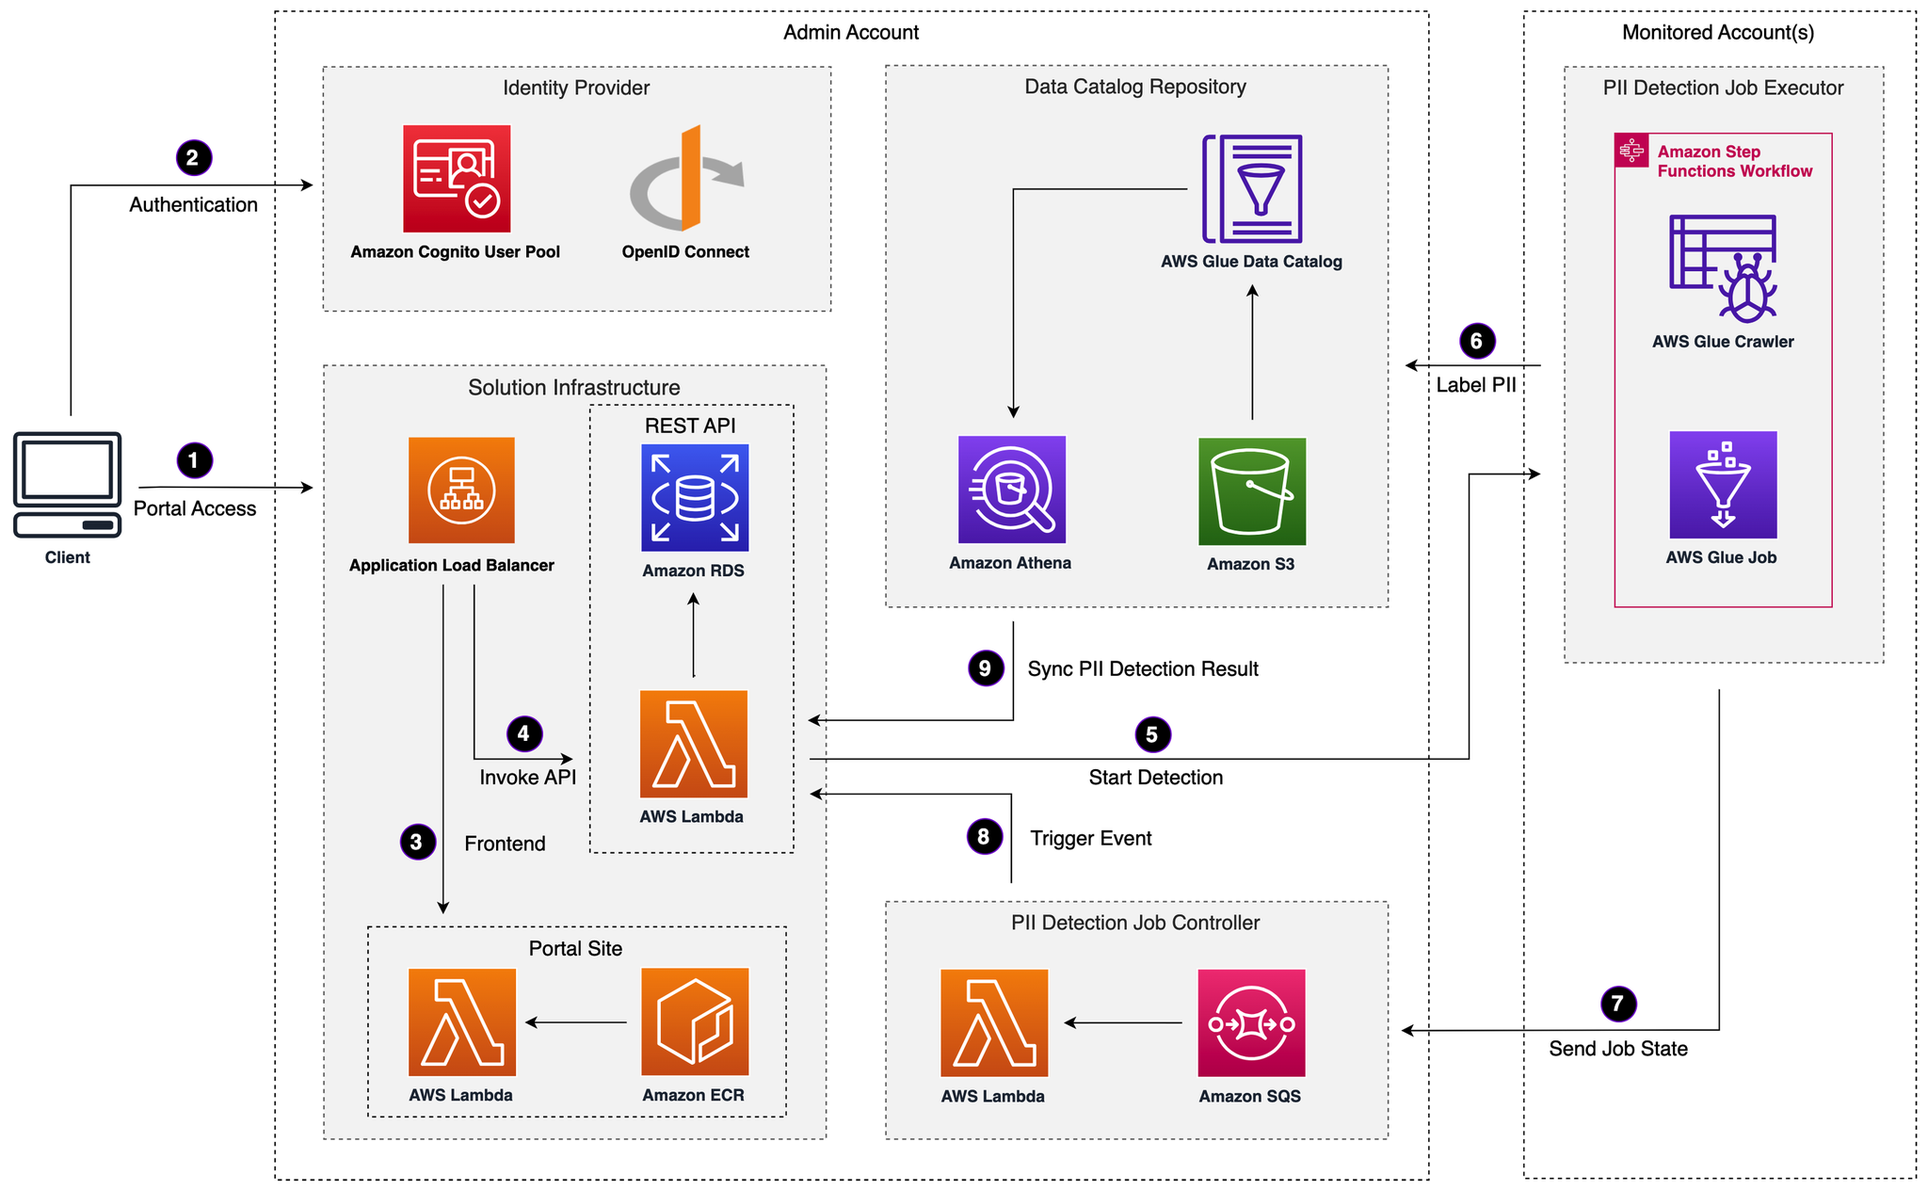
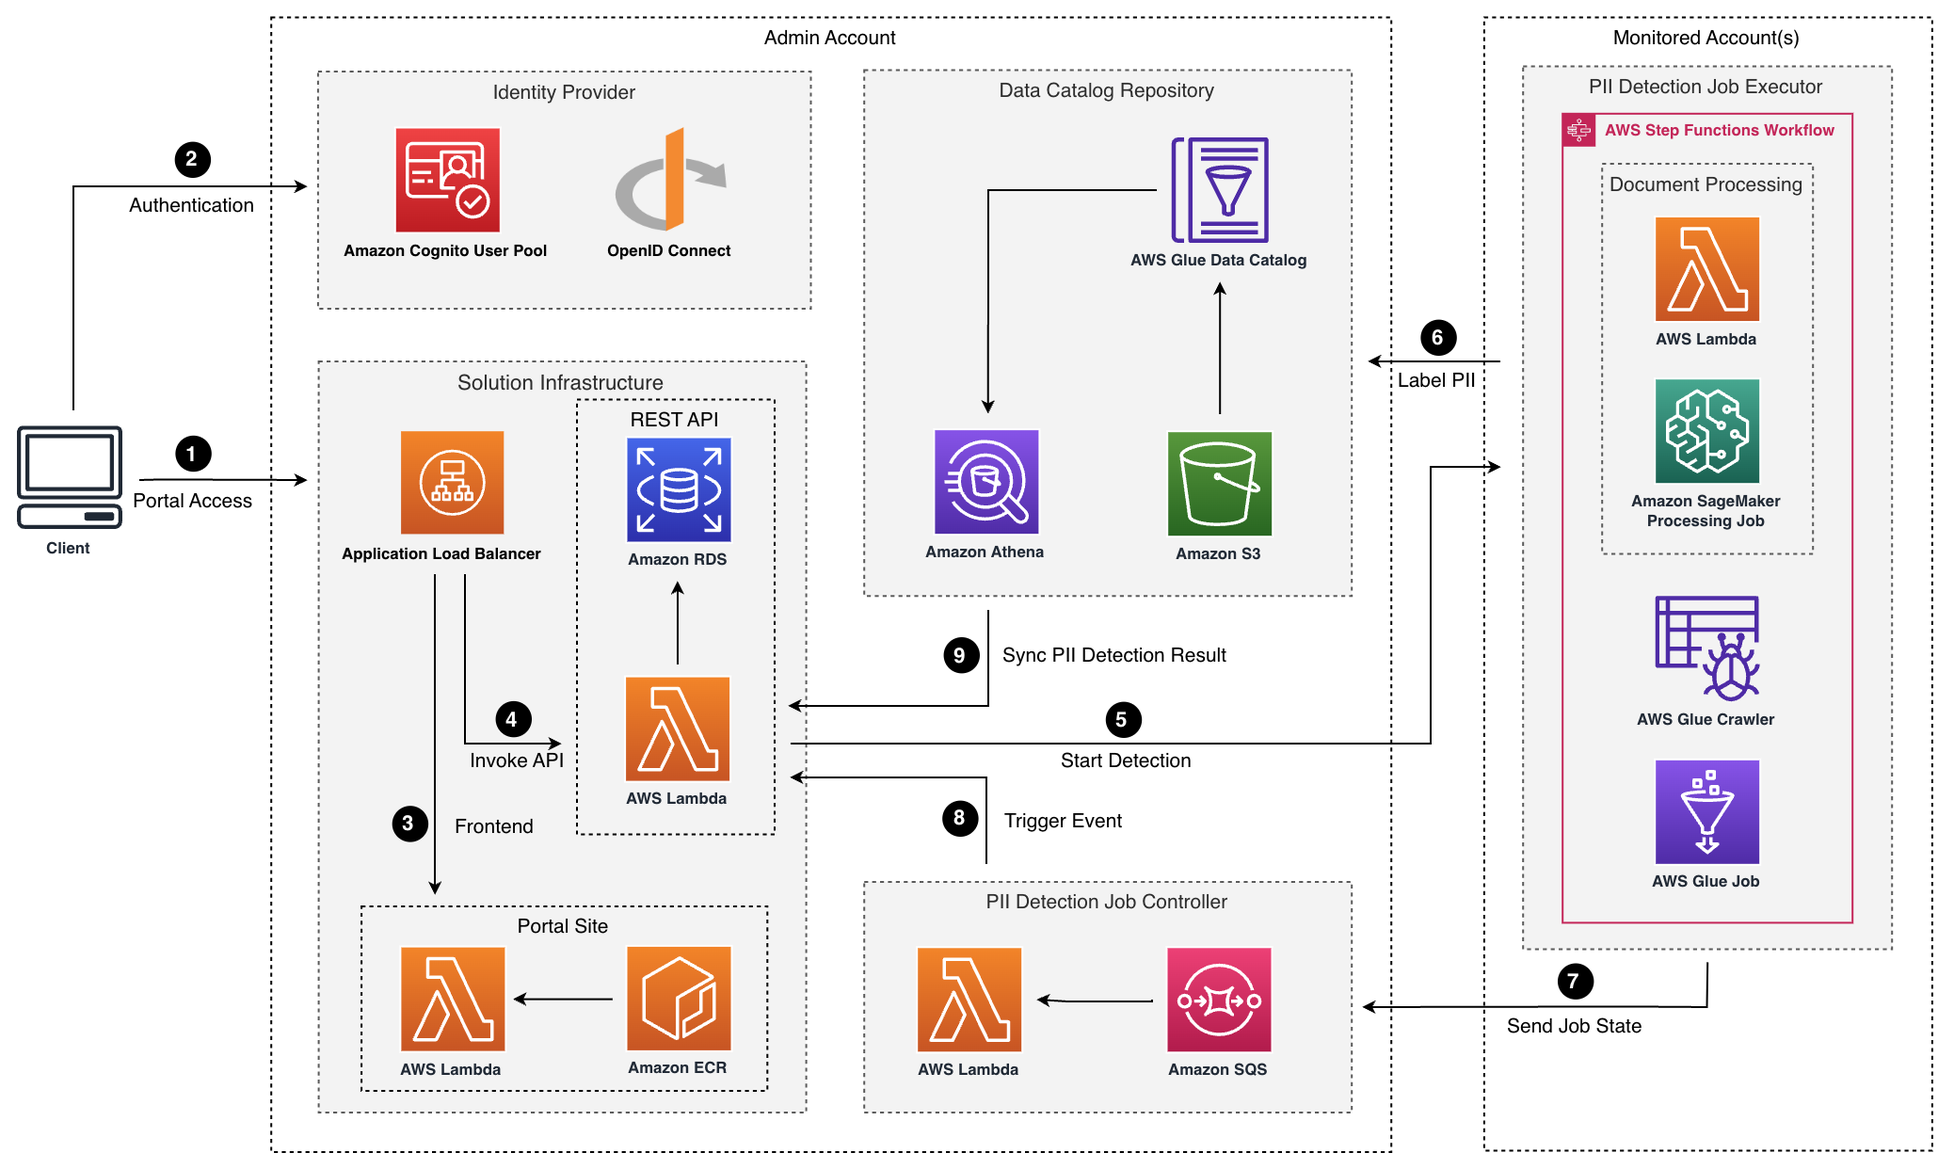
fix(doc): update doc

diff --git a/docs/en/deployment/deployment.md b/docs/en/deployment/deployment.md
@@ -98,8 +98,8 @@ Deploy the AWS CloudFormation **Admin** template into your AWS admin account.
 
     |                                       | Launch in AWS Console                                                                                                                                                                                                                                                            |
     |----------------------------------------------------------------------------------------------------------------------------------------------------------------------------------------------------------------------------------------------------------------------------------| ------------------------- |
-    | Deploy the Admin template with a new VPC in AWS Regions       | [![Launch Stack](../images/launch-stack.png)](https://console.aws.amazon.com/cloudformation/home#/stacks/create/template?stackName=SDPS-Admin&templateURL=https://aws-gcr-solutions.s3.amazonaws.com/aws-sensitive-data-protection/latest/default/Admin.template.json){target=_blank}                               |
-    | Deploy the Admin template with an existing VPC in AWS Regions | [![Launch Stack](../images/launch-stack.png)](https://console.aws.amazon.com/cloudformation/home#/stacks/create/template?stackName=SDPS-Admin&templateURL=https://aws-gcr-solutions.s3.amazonaws.com/aws-sensitive-data-protection/latest/default/AdminExistVpc.template.json){target=_blank}                |
+    | Deploy the Admin template with a new VPC in AWS Regions       | [![Launch Stack](../images/launch-stack.png)](https://console.aws.amazon.com/cloudformation/home#/stacks/create/template?stackName=SDPS-Admin&templateURL=https://aws-gcr-solutions.s3.amazonaws.com/aws-sensitive-data-protection/latest/default/AdminWithIdP.template.json){target=_blank}                               |
+    | Deploy the Admin template with an existing VPC in AWS Regions | [![Launch Stack](../images/launch-stack.png)](https://console.aws.amazon.com/cloudformation/home#/stacks/create/template?stackName=SDPS-Admin&templateURL=https://aws-gcr-solutions.s3.amazonaws.com/aws-sensitive-data-protection/latest/default/AdminExistVpcWithIdP.template.json){target=_blank}                |
     | Deploy the Admin template with a new VPC in AWS China Regions                 | [![Launch Stack](../images/launch-stack.png)](https://cn-north-1.console.amazonaws.cn/cloudformation/home#/stacks/create/template?stackName=SDPS-Admin&templateURL=https://aws-gcr-solutions.s3.cn-north-1.amazonaws.com.cn/aws-sensitive-data-protection/latest/cn/Admin.template.json){target=_blank}                                 |
     | Deploy the Admin template with an existing VPC in AWS China Regions            | [![Launch Stack](../images/launch-stack.png)](https://cn-north-1.console.amazonaws.cn/cloudformation/home#/stacks/create/template?stackName=SDPS-Admin&templateURL=https://aws-gcr-solutions.s3.cn-north-1.amazonaws.com.cn/aws-sensitive-data-protection/latest/cn/AdminExistVpc.template.json){target=_blank} |
 
@@ -118,9 +118,9 @@ Deploy the AWS CloudFormation **Admin** template into your AWS admin account.
 
     |      Parameter      |    Default   |                                                      Description                                                      |
     |:-------------------:|:------------:|:--------------------------------------------------------------------------------------------------------------|
-    |Issuer URL||Specify the secure OpenID Connect URL. Maximum 255 characters. URL must begin with `https://`|
-    |Client ID||Specify the client ID issued by the identity provider. Maximum 255 characters. Use alphanumeric or ?:_.-/? characters |
-    |Public Access | Yes |If you choose No, the portal website can be accessed ONLY in the VPC. If you want to access the portal website over Internet, you need to choose Yes |
+    |Issuer URL||Specify the secure OpenID Connect URL. Maximum 255 characters. URL must begin with `https://`.The template with identity provider does not have this parameter.|
+    |Client ID||Specify the client ID issued by the identity provider. Maximum 255 characters. Use alphanumeric or ?:_.-/? characters.The template with identity provider does not have this parameter |
+    |Public Access | Yes |If you choose No, the portal website can be accessed ONLY in the VPC. If you want to access the portal website over Internet, you need to choose Yes.The template that uses only private subnets does not have this parameter |
     |Port|80|If an ACM certificate ARN has been added, we recommend using port 443 as the default port for HTTPS protocol. Otherwise, port 80 can be set as an alternative option|
     |ACM Certificate ARN||(Optional) To enable secure communication through encryption and enhancing the security of the solution, you can add a public certificate ARN from ACM to create the portal website URL based on the HTTPS protocol|
     |Custom Domain Name||(Optional) By adding your own domain name, such as sdps.example.com, you can directly access the portal website by adding a CNAME record to that domain name after deploying the stack. You only need to enter the domain name, excluding `http(s)://`|

diff --git a/docs/zh/deployment/deployment.md b/docs/zh/deployment/deployment.md
@@ -93,8 +93,8 @@ Issuer URL可以在您的个人资料中找到。完整的Issuer URL为“https:
 
    |                                       | 从 AWS 控制台中启动                                                                                                                                                                                                                                                            |
     |----------------------------------------------------------------------------------------------------------------------------------------------------------------------------------------------------------------------------------------------------------------------------------| ------------------------- |
-    | 在新VPC （AWS全球区域）中启动解决方案       | [![Launch Stack](../images/launch-stack.png)](https://console.aws.amazon.com/cloudformation/home#/stacks/create/template?stackName=SDPS-Admin&templateURL=https://aws-gcr-solutions.s3.amazonaws.com/aws-sensitive-data-protection/latest/default/Admin.template.json){target=_blank}                               |
-    | 在现有VPC （AWS全球区域）中启动解决方案 | [![Launch Stack](../images/launch-stack.png)](https://console.aws.amazon.com/cloudformation/home#/stacks/create/template?stackName=SDPS-Admin&templateURL=https://aws-gcr-solutions.s3.amazonaws.com/aws-sensitive-data-protection/latest/default/AdminExistVpc.template.json){target=_blank}                |
+    | 在新VPC （AWS全球区域）中启动解决方案       | [![Launch Stack](../images/launch-stack.png)](https://console.aws.amazon.com/cloudformation/home#/stacks/create/template?stackName=SDPS-Admin&templateURL=https://aws-gcr-solutions.s3.amazonaws.com/aws-sensitive-data-protection/latest/default/AdminWithIdP.template.json){target=_blank}                               |
+    | 在现有VPC （AWS全球区域）中启动解决方案 | [![Launch Stack](../images/launch-stack.png)](https://console.aws.amazon.com/cloudformation/home#/stacks/create/template?stackName=SDPS-Admin&templateURL=https://aws-gcr-solutions.s3.amazonaws.com/aws-sensitive-data-protection/latest/default/AdminExistVpcWithIdP.template.json){target=_blank}                |
     | 在新VPC（AWS 中国区域）中启动解决方案                 | [![Launch Stack](../images/launch-stack.png)](https://cn-north-1.console.amazonaws.cn/cloudformation/home#/stacks/create/template?stackName=SDPS-Admin&templateURL=https://aws-gcr-solutions.s3.cn-north-1.amazonaws.com.cn/aws-sensitive-data-protection/latest/cn/Admin.template.json){target=_blank}                                 |
     | 在现有VPC（AWS 中国区域）中启动解决方案           | [![Launch Stack](../images/launch-stack.png)](https://cn-north-1.console.amazonaws.cn/cloudformation/home#/stacks/create/template?stackName=SDPS-Admin&templateURL=https://aws-gcr-solutions.s3.cn-north-1.amazonaws.com.cn/aws-sensitive-data-protection/latest/cn/AdminExistVpc.template.json){target=_blank} |
 
@@ -113,9 +113,9 @@ Issuer URL可以在您的个人资料中找到。完整的Issuer URL为“https:
 
     |      参数       |    默认值    |                                                      描述                                                      |
     |:---------------:|:-----------:|:------------------------------------------------------------------------------------------------------------|
-    |Issuer URL||指定安全的OpenID Connect URL。最大长度为255个字符。URL必须以"https://"开头|
-    |Client ID||指定身份提供商颁发的客户端ID。最大长度为255个字符。使用字母数字或?:_.-/?字符 |
-    |Public Access | Yes |如果选择No，则只能在VPC中访问门户网站。如果要通过Internet访问门户网站，需要选择Yes |
+    |Issuer URL||指定安全的OpenID Connect URL。最大长度为255个字符。URL必须以"https://"开头。使用带身份提供商的模板无此参数|
+    |Client ID||指定身份提供商颁发的客户端ID。最大长度为255个字符。使用字母数字或?:_.-/?字符。使用带身份提供商的模板无此参数 |
+    |Public Access | Yes |如果选择No，则只能在VPC中访问门户网站。如果要通过Internet访问门户网站，需要选择Yes。使用纯私有子网的模板无此参数 |
     |Port|80|如果已添加ACM证书ARN，建议使用默认端口443作为HTTPS协议的端口。否则，可以将端口设置为80作为备用选项|
     |ACM Certificate ARN||(可选)为了通过加密实现安全通信并增强解决方案的安全性，可以添加来自ACM的公共证书ARN，以基于HTTPS协议创建门户网站URL|
     |Custom Domain Name||(可选)通过添加您自己的域名（例如sdps.example.com），您可以在部署堆栈后通过将CNAME记录添加到该域名来直接访问门户网站。只填写域名，不要填写http(s) |

diff --git a/docs/en/deployment/template.md b/docs/en/deployment/template.md
@@ -9,8 +9,10 @@ If all your accounts are within AWS Organizations, you need to deploy the IT tem
 
 - [Template for Admin account with IdP (Admin template) in New VPC](https://aws-gcr-solutions.s3.amazonaws.com/aws-sensitive-data-protection/latest/default/AdminWithIdP.template.json)
 - [Template for Admin account With IdP (Admin template) in Existing VPC](https://aws-gcr-solutions.s3.amazonaws.com/aws-sensitive-data-protection/latest/default/AdminExistVpcWithIdP.template.json)
+- [Template for Admin account With IdP (Admin template) in Only Private Subnets Existing VPC](https://aws-gcr-solutions.s3.amazonaws.com/aws-sensitive-data-protection/latest/default/AdminOnlyPrivateSubnetsWithIdP.template.json)
 - [Template for Admin account (Admin template) in New VPC](https://aws-gcr-solutions.s3.amazonaws.com/aws-sensitive-data-protection/latest/default/Admin.template.json)
 - [Template for Admin account (Admin template) in Existing VPC](https://aws-gcr-solutions.s3.amazonaws.com/aws-sensitive-data-protection/latest/default/AdminExistVpc.template.json)
+- [Template for Admin account (Admin template) in Only Private Subnets Existing VPC](https://aws-gcr-solutions.s3.amazonaws.com/aws-sensitive-data-protection/latest/default/AdminOnlyPrivateSubnets.template.json)
 - [Template for Monitored account (Agent template)](https://aws-gcr-solutions.s3.amazonaws.com/aws-sensitive-data-protection/latest/default/Agent.template.json)
 - [Template for IT account (IT template)](https://aws-gcr-solutions.s3.amazonaws.com/aws-sensitive-data-protection/latest/default/IT.template.json)
 

diff --git a/docs/zh/deployment/template.md b/docs/zh/deployment/template.md
@@ -8,8 +8,10 @@
 
 - [在新 VPC 中启动带身份提供商的管理员帐户模板 (Admin template)](https://aws-gcr-solutions.s3.amazonaws.com/aws-sensitive-data-protection/latest/default/AdminWithIdP.template.json)
 - [在现有 VPC 中启动带身份提供商的管理员帐户模板 (Admin template)](https://aws-gcr-solutions.s3.amazonaws.com/aws-sensitive-data-protection/latest/default/AdminExistVpcWithIdP.template.json)
+- [在现有仅私有子网VPC中启动带身份提供商的管理员帐户模板 (Admin template)](https://aws-gcr-solutions.s3.amazonaws.com/aws-sensitive-data-protection/latest/default/AdminOnlyPrivateSubnetsWithIdP.template.json)
 - [在新 VPC 中启动管理员帐户模板 (Admin template)](https://aws-gcr-solutions.s3.amazonaws.com/aws-sensitive-data-protection/latest/default/Admin.template.json)
 - [在现有 VPC 中启动管理员帐户模板 (Admin template)](https://aws-gcr-solutions.s3.amazonaws.com/aws-sensitive-data-protection/latest/default/AdminExistVpc.template.json)
+- [在现有仅私有子网VPC中启动管理员帐户模板 (Admin template)](https://aws-gcr-solutions.s3.amazonaws.com/aws-sensitive-data-protection/latest/default/AdminOnlyPrivateSubnets.template.json)
 - [被监控帐户的模板 (Agent template)](https://aws-gcr-solutions.s3.amazonaws.com/aws-sensitive-data-protection/latest/default/Agent.template.json)
 - [IT 帐户的模板 (IT template)](https://aws-gcr-solutions.s3.amazonaws.com/aws-sensitive-data-protection/latest/default/IT.template.json)
 

diff --git a/docs/en/architecture-overview/architecture.md b/docs/en/architecture-overview/architecture.md
@@ -8,7 +8,7 @@ Deploying this solution with the default parameters builds the following environ
 3. The AWS Lambda function is packaged as Docker images and stored in the [Amazon ECR (Elastic Container Registry)](https://aws.amazon.com/ecr/). 
 4. The backend Lambda function is a target for the Application Load Balancer. 
 5. The backend Lambda function invokes [AWS Step Functions](https://aws.amazon.com/step-functions/) in monitored accounts for sensitive data detection. 
-6. In [AWS Step Functions](https://aws.amazon.com/step-functions/) workflow, the [AWS Glue](https://aws.amazon.com/glue/) Crawler runs to take inventory of the data sources and is stored in the Glue Database as metadata tables.
+6. In [AWS Step Functions](https://aws.amazon.com/step-functions/) workflow, the [AWS Glue](https://aws.amazon.com/glue/) Crawler runs to take inventory of the structured data sources and is stored in the Glue Database as metadata tables.[Amazon SageMaker](https://aws.amazon.com/sagemaker/) processing job is used to preprocess unstructured file in S3 buckets, and store metadata in the Glue database.AWS Glue Job is used to detect sensitive data.
 7. The Step Functions send [Amazon SQS](https://aws.amazon.com/sqs/) messages to the detection job queue after the Glue job has run. 
 8. Lambda function processes messages from Amazon SQS.
 9. The [Amazon Athena](https://aws.amazon.com/athena/) query detection results and save to MySQL instance in [Amazon RDS](https://aws.amazon.com/rds/).

diff --git a/docs/zh/architecture-overview/architecture.md b/docs/zh/architecture-overview/architecture.md
@@ -8,7 +8,7 @@
 3. AWS Lambda函数打包为Docker镜像，并存储在[Amazon ECR（弹性容器注册表）](https://aws.amazon.com/ecr/)中。
 4. 后端Lambda函数是应用负载均衡器的目标。
 5. 后端Lambda函数调用监控账户中的[AWS Step Functions](https://aws.amazon.com/step-functions/)来进行敏感数据检测。
-6. 在[AWS Step Functions](https://aws.amazon.com/step-functions/)工作流中，[AWS Glue](https://aws.amazon.com/glue/) Crawler运行以列出数据源，并将其作为元数据表存储在Glue数据库中。
+6. 在[AWS Step Functions](https://aws.amazon.com/step-functions/)工作流中，[AWS Glue](https://aws.amazon.com/glue/) Crawler运行以列出结构化数据源，并将其作为元数据表存储在Glue数据库中。[Amazon SageMaker](https://aws.amazon.com/sagemaker/) processing job用于预处理S3桶中的非结构化文件，并将元数据存储在Glue数据库中。AWS Glue Job用于检测敏感数据。
 7. Glue作业运行后，Step Functions会将消息发送到[Amazon SQS（简单队列服务）](https://aws.amazon.com/sqs/)中的检测作业队列。
 8. Lambda函数从Amazon SQS中处理消息。
 9. [Amazon Athena](https://aws.amazon.com/athena/)查询检测结果，并将其保存到[Amazon RDS（关系型数据库服务）](https://aws.amazon.com/rds/)中的MySQL实例中。

diff --git a/docs/en/architecture-details/services-in-the-solution.md b/docs/en/architecture-details/services-in-the-solution.md
@@ -5,7 +5,8 @@ The following AWS services are included in this solution:
 | [Application Load Balancer](https://aws.amazon.com/alb/) | **Core**. To distribute the frontend web UI assets. |
 | [Amazon ECR](https://aws.amazon.com/ecr/) | **Core**. To store Docker images. |
 | [AWS Lambda](https://aws.amazon.com/lambda/) | **Core**. To serve as a target for the application load balancer. |
-| [AWS Step Functions](https://aws.amazon.com/step-functions/) | **Supporting**. To be invoked for sensitive data detection. |
-| [AWS Glue](https://aws.amazon.com/glue/) | **Supporting**. To take inventory of data sources. |
+| [AWS Step Functions](https://aws.amazon.com/step-functions/) | **Supporting**. Job Process Control. |
+| [AWS Glue](https://aws.amazon.com/glue/) | **Supporting**. To take inventory of data sources.To be invoked for sensitive data detection. |
 | [Amazon RDS](https://aws.amazon.com/rds/) | **Supporting**. To set up, operate, and scale a relational database in the cloud with just a few clicks. |
 | [Amazon SQS](https://aws.amazon.com/sqs/) | **Supporting**. To allow the Step Functions to send messages to the detection job queue. |
+| [Amazon SageMaker](https://aws.amazon.com/sagemaker/) | **Supporting**. Unstructured data preprocessing. |

diff --git a/docs/zh/architecture-details/services-in-the-solution.md b/docs/zh/architecture-details/services-in-the-solution.md
@@ -5,7 +5,8 @@
 | [Application Load Balancer](https://aws.amazon.com/alb/) | **核心组件**。用于分发前端 Web UI 资产。 |
 | [Amazon ECR](https://aws.amazon.com/ecr/) | **核心组件**。用于存储 Docker 镜像。 |
 | [AWS Lambda](https://aws.amazon.com/lambda/) | **核心组件**。作为应用程序负载均衡器的目标。 |
-| [AWS Step Functions](https://aws.amazon.com/step-functions/) | **支持**。被调用以进行敏感数据检测。 |
-| [AWS Glue](https://aws.amazon.com/glue/) | **支持**。用于清点数据源。 |
+| [AWS Step Functions](https://aws.amazon.com/step-functions/) | **支持**。任务流程控制 |
+| [AWS Glue](https://aws.amazon.com/glue/) | **支持**。用于清点数据源。被调用以进行敏感数据检测。 |
 | [Amazon RDS](https://aws.amazon.com/rds/) | **支持**。仅需几次点击即可在云中设置、操作和扩展关系数据库。 |
 | [Amazon SQS](https://aws.amazon.com/sqs/) | **支持**。让 Step Functions 向检测作业队列发送消息。 |
+| [Amazon SageMaker](https://aws.amazon.com/sagemaker/) | **支持**。非结构化数据预处理。 |

diff --git a/docs/en/update/update.md b/docs/en/update/update.md
@@ -3,6 +3,9 @@
 
 ## Update overview
 !!! Important "Important"
+    Currently, upgrading from 1.0 to 1.1 is not supported. Please remove 1.0 and redeploy 1.1.
+    If there is indeed a need, please contact us.
+!!! Important "Important"
     Please confirm that no jobs are running before updating.
 This page is used to guide how to update to the latest version after deploying an old version.
 Use the following steps to update this solution on AWS. 

diff --git a/docs/zh/update/update.md b/docs/zh/update/update.md
@@ -3,6 +3,9 @@
 
 ## 升级概述
 !!! Important "重要提示"
+    目前不支持从1.0升级到1.1，请删除1.0后重新部署1.1。
+    如果确实有该需求，请联系我们。
+!!! Important "重要提示"
     请在更新前确认没有任何任务在运行。
 本页用于指导已部署老版本，如何升级到最新版本。
 按照以下步骤在AWS上升级此解决方案。
